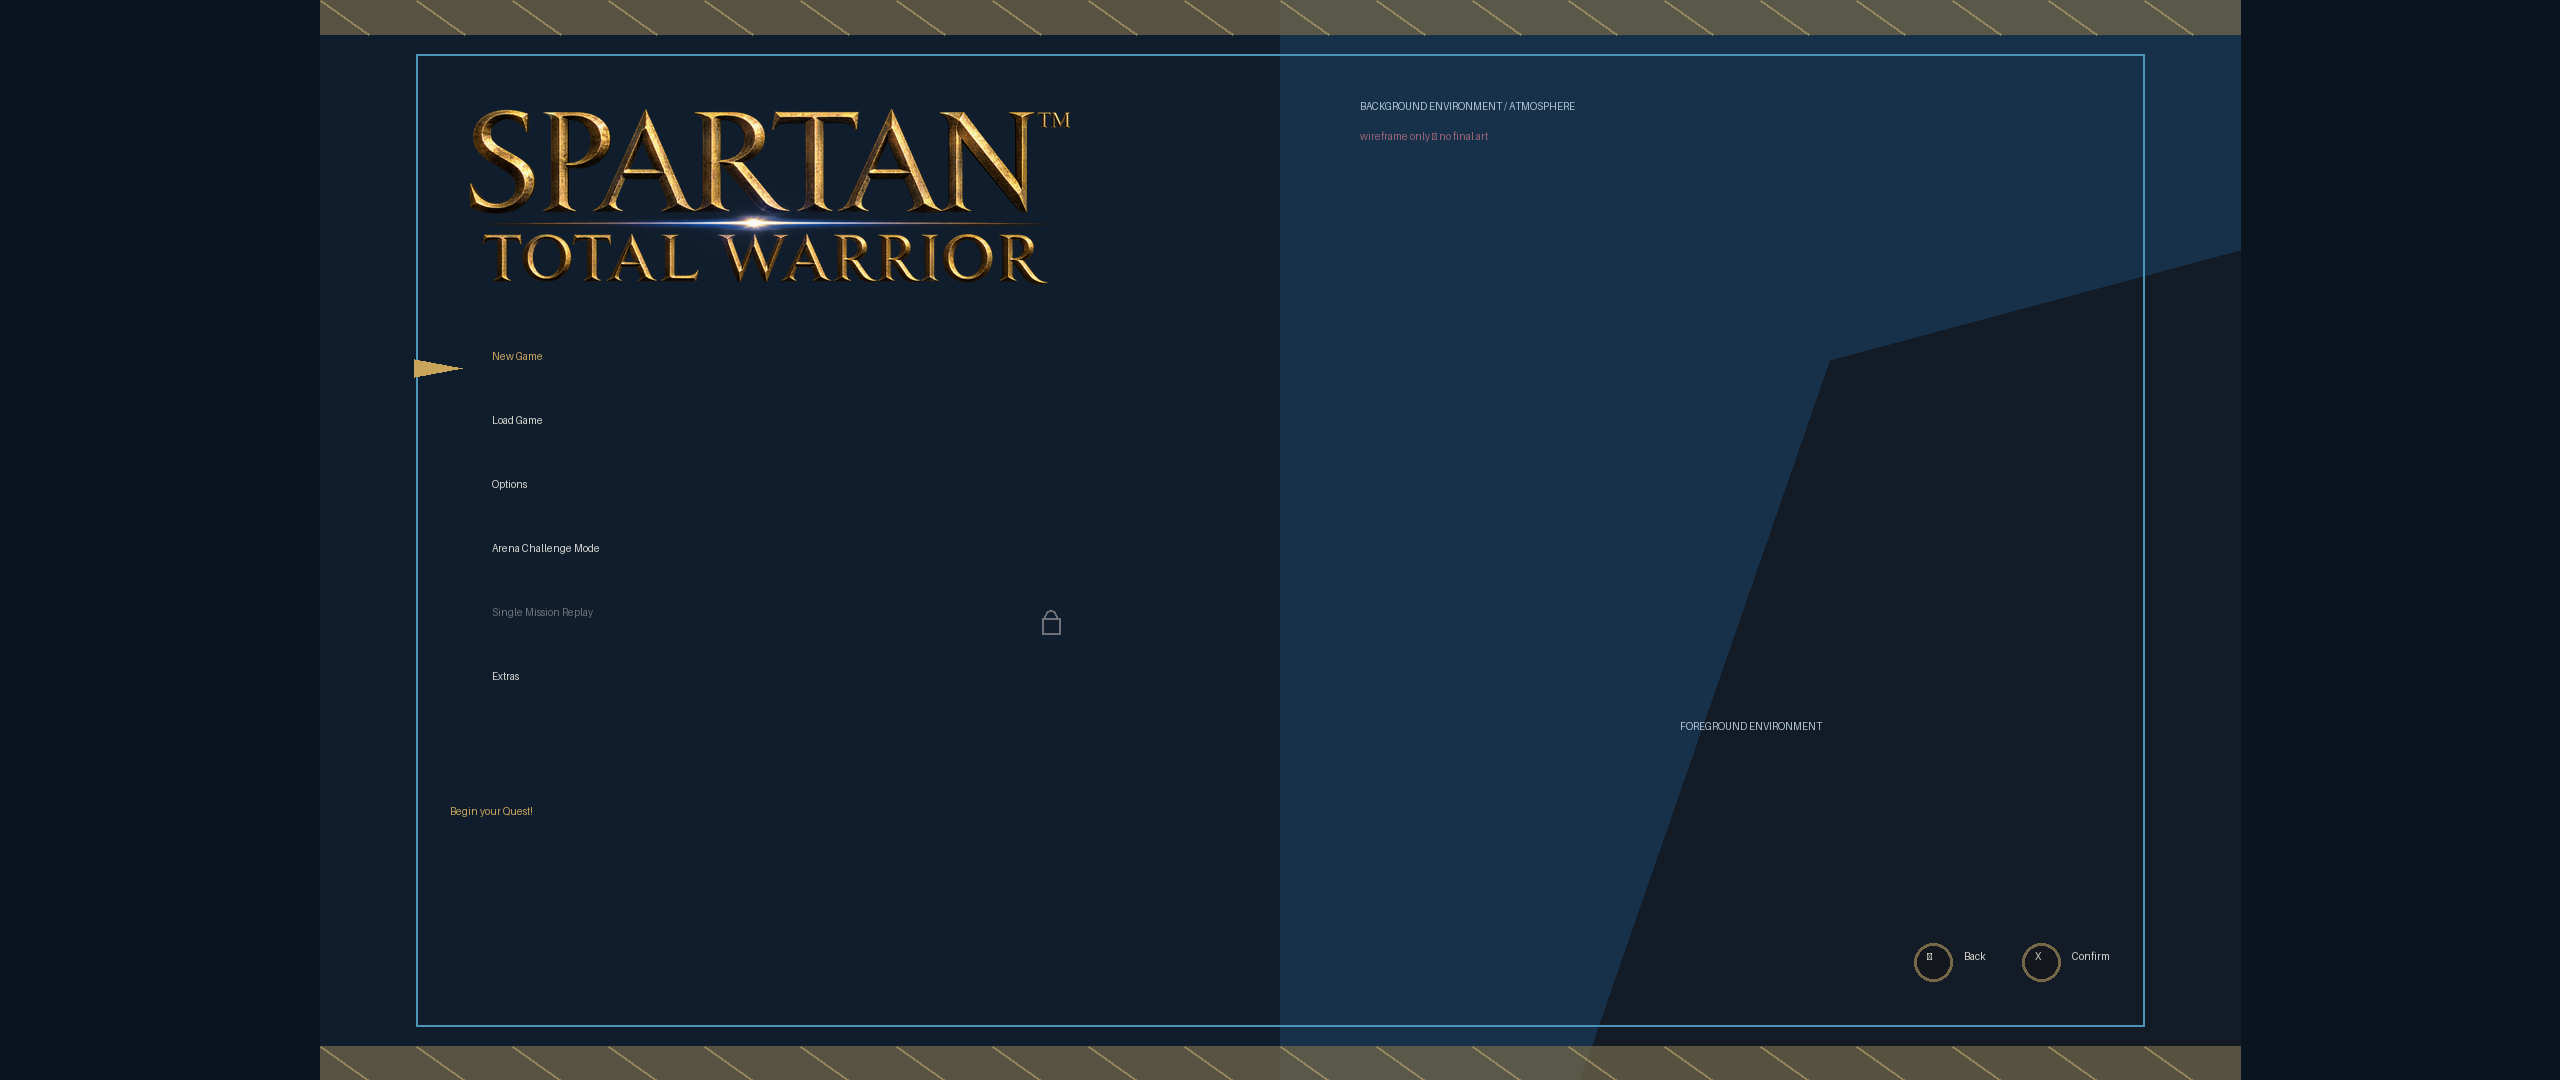
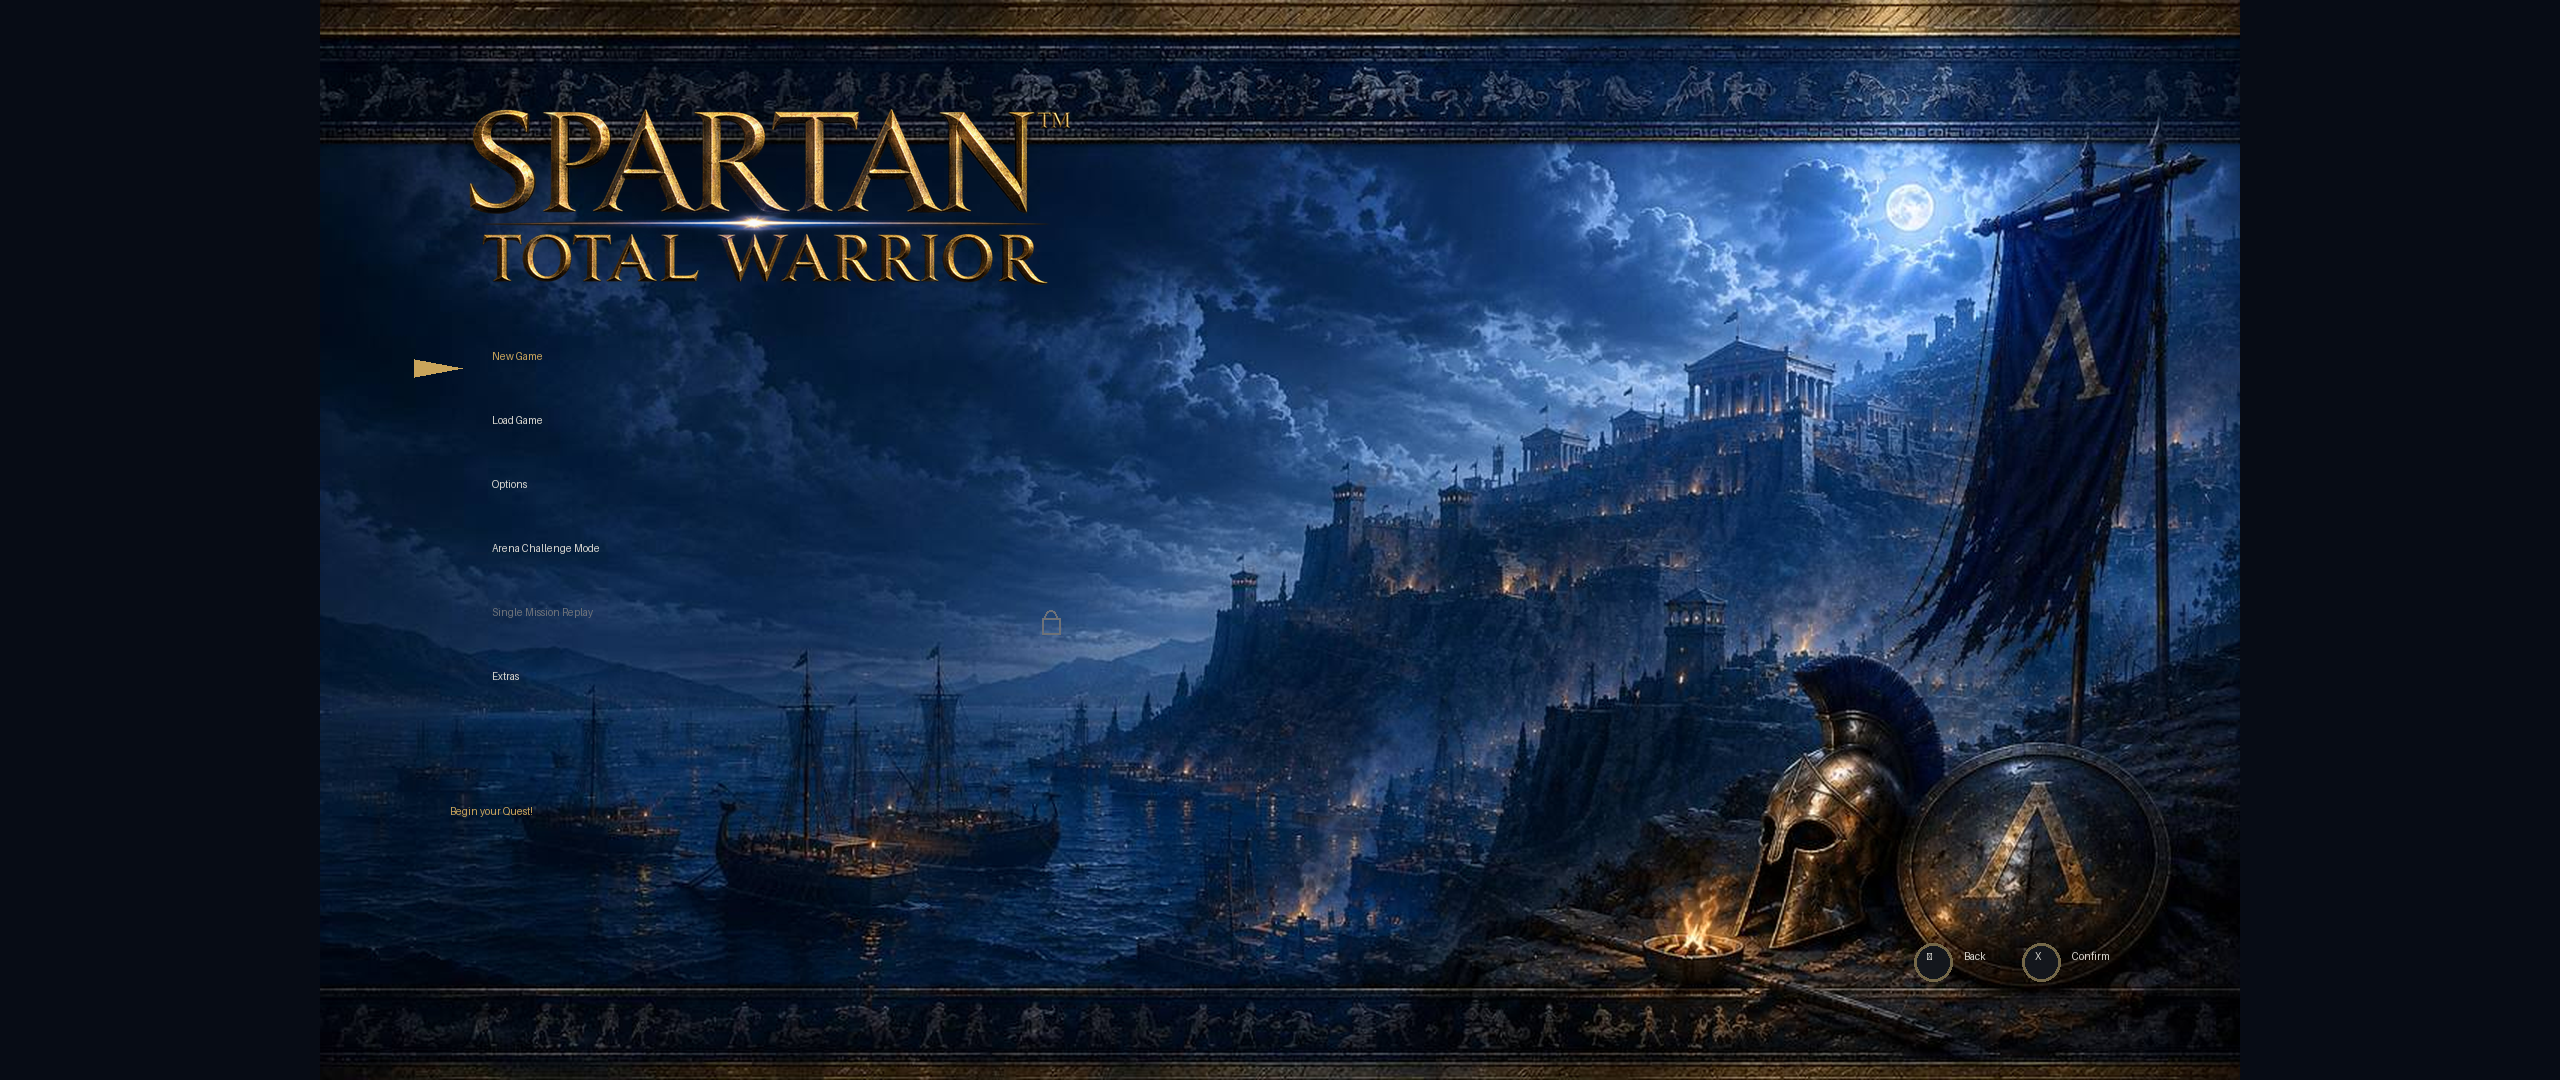
reforged: integrate approved main menu background

diff --git a/tools/reforged/frontend/main_menu_reforged.py b/tools/reforged/frontend/main_menu_reforged.py
@@ -287,26 +287,35 @@ def render_wireframe(
     image = Image.new("RGB", (width, height), _colour(tokens, "backgroundDark"))
     draw = ImageDraw.Draw(image, "RGBA")
 
-    # Environment-only side extensions and labelled composition zones.
-    if layout.background_extension_left:
-        draw.rectangle((0, 0, round(layout.composition_x), height), fill=(10, 20, 31, 255))
-        draw.rectangle((round(layout.composition_x + layout.composition_width), 0, width, height), fill=(10, 20, 31, 255))
-    draw.rectangle(_scaled_box(layout, (0, 0, 1920, 1080)), fill=_colour(tokens, "backgroundMid"))
-    draw.rectangle(_scaled_box(layout, (960, 0, 1920, 1080)), fill=_colour(tokens, "environmentGuide"))
-    draw.polygon([
-        layout.point(1260, 1080), layout.point(1510, 360), layout.point(1920, 250), layout.point(1920, 1080)
-    ], fill=(*ImageColor_getrgb(_colour(tokens, "foregroundGuide")), 220))
-
-    safe = tuple(round(v) for v in layout.safe_rect)
-    draw.rectangle(safe, outline=_colour(tokens, "safeAreaGuide"), width=max(1, round(2 * layout.scale)))
+    background_path = resolve_asset_path("background", tokens)
+    if background_path:
+        with Image.open(background_path) as background_source:
+            background = background_source.convert("RGB")
+        composition_size = (round(layout.composition_width), round(layout.composition_height))
+        rendered_background = background.resize(composition_size, Image.Resampling.LANCZOS)
+        image.paste(rendered_background, (round(layout.composition_x), round(layout.composition_y)))
+    else:
+        # Project-created fallback zones remain available when approved artwork is absent.
+        if layout.background_extension_left:
+            draw.rectangle((0, 0, round(layout.composition_x), height), fill=(10, 20, 31, 255))
+            draw.rectangle((round(layout.composition_x + layout.composition_width), 0, width, height), fill=(10, 20, 31, 255))
+        draw.rectangle(_scaled_box(layout, (0, 0, 1920, 1080)), fill=_colour(tokens, "backgroundMid"))
+        draw.rectangle(_scaled_box(layout, (960, 0, 1920, 1080)), fill=_colour(tokens, "environmentGuide"))
+        draw.polygon([
+            layout.point(1260, 1080), layout.point(1510, 360), layout.point(1920, 250), layout.point(1920, 1080)
+        ], fill=(*ImageColor_getrgb(_colour(tokens, "foregroundGuide")), 220))
+        safe = tuple(round(v) for v in layout.safe_rect)
+        draw.rectangle(safe, outline=_colour(tokens, "safeAreaGuide"), width=max(1, round(2 * layout.scale)))
 
     ornament_h = tokens["ornament"]["height"]
-    for y in (0, 1080 - ornament_h):
-        box = _scaled_box(layout, (0, y, 1920, y + ornament_h))
-        draw.rectangle(box, fill=(*ImageColor_getrgb(_colour(tokens, "ornamentNeutral")), 180))
-        step = max(8, round(tokens["ornament"]["tileWidth"] * layout.scale))
-        for x in range(box[0], box[2], step):
-            draw.line((x, box[1], min(box[2], x + step // 2), box[3]), fill=(195, 172, 112, 140), width=2)
+    bands_baked_in = bool(tokens["background"].get("approvedPlateIncludesOrnamentBands"))
+    if not (background_path and bands_baked_in):
+        for y in (0, 1080 - ornament_h):
+            box = _scaled_box(layout, (0, y, 1920, y + ornament_h))
+            draw.rectangle(box, fill=(*ImageColor_getrgb(_colour(tokens, "ornamentNeutral")), 180))
+            step = max(8, round(tokens["ornament"]["tileWidth"] * layout.scale))
+            for x in range(box[0], box[2], step):
+                draw.line((x, box[1], min(box[2], x + step // 2), box[3]), fill=(195, 172, 112, 140), width=2)
 
     # Replaceable logo component. A missing asset remains a labelled fallback.
     lx, ly = tokens["logo"]["position"]
@@ -380,11 +389,12 @@ def render_wireframe(
         draw.text(layout.point(cursor + tokens["prompt"]["glyphSize"] + 12, py - 12), label, font=prompt_font, fill=_colour(tokens, "textPrimary"))
         cursor -= tokens["prompt"]["itemGap"]
 
-    # Development labels make clear that no final artwork is present.
-    note_font = _font(round(15 * layout.scale))
-    draw.text(layout.point(1040, 100), "BACKGROUND ENVIRONMENT / ATMOSPHERE", font=note_font, fill=(175, 195, 211, 210))
-    draw.text(layout.point(1360, 720), "FOREGROUND ENVIRONMENT", font=note_font, fill=(175, 195, 211, 210))
-    draw.text(layout.point(1040, 130), "wireframe only — no final art", font=note_font, fill=(155, 101, 119, 240))
+    if not background_path:
+        # Development labels apply only to the project-created fallback treatment.
+        note_font = _font(round(15 * layout.scale))
+        draw.text(layout.point(1040, 100), "BACKGROUND ENVIRONMENT / ATMOSPHERE", font=note_font, fill=(175, 195, 211, 210))
+        draw.text(layout.point(1360, 720), "FOREGROUND ENVIRONMENT", font=note_font, fill=(175, 195, 211, 210))
+        draw.text(layout.point(1040, 130), "wireframe only — no final art", font=note_font, fill=(155, 101, 119, 240))
     return image
 
 

diff --git a/tools/reforged/frontend/integrate_approved_main_menu_background.py b/tools/reforged/frontend/integrate_approved_main_menu_background.py
@@ -1,0 +1,100 @@
+#!/usr/bin/env python3
+"""Archive the human-approved main-menu background without visual changes."""
+
+from __future__ import annotations
+
+import argparse
+import hashlib
+import json
+import pathlib
+import shutil
+
+from PIL import Image
+
+
+ROOT = pathlib.Path(__file__).resolve().parents[3]
+APPROVED_ROOT = ROOT / "assets/reforged/frontend/main-menu/background/approved"
+SOURCE_PATH = APPROVED_ROOT / "source/spartan-background-approved.jpg"
+RUNTIME_PATH = APPROVED_ROOT / "runtime/spartan-background-approved.jpg"
+METADATA_PATH = APPROVED_ROOT / "metadata/spartan-background-approved.json"
[1 lines of base64/hex data omitted]
+EXPECTED_SIZE = (1280, 720)
+
+
+def sha256_path(path: pathlib.Path) -> str:
+    digest = hashlib.sha256()
+    with path.open("rb") as stream:
+        for chunk in iter(lambda: stream.read(1024 * 1024), b""):
+            digest.update(chunk)
+    return digest.hexdigest()
+
+
+def inspect_source(path: pathlib.Path) -> dict[str, object]:
+    if not path.is_file():
+        raise FileNotFoundError(f"approved background is missing: {path}")
+    digest = sha256_path(path)
+    if digest != EXPECTED_SHA256:
+        raise ValueError(f"approved background hash mismatch: {digest}")
+    with Image.open(path) as image:
+        image.load()
+        if image.format != "JPEG" or image.mode != "RGB" or image.size != EXPECTED_SIZE:
+            raise ValueError(f"unexpected approved background: {image.format}/{image.mode}/{image.size}")
+    return {
+        "suppliedFilename": path.name,
+        "sha256": digest,
+        "fileSize": path.stat().st_size,
+        "format": "JPEG",
+        "mode": "RGB",
+        "dimensions": list(EXPECTED_SIZE),
+    }
+
+
+def copy_exact(source: pathlib.Path, target: pathlib.Path) -> None:
+    target.parent.mkdir(parents=True, exist_ok=True)
+    shutil.copyfile(source, target)
+    if source.read_bytes() != target.read_bytes():
+        raise RuntimeError(f"byte-exact copy validation failed: {target}")
+
+
+def integrate(source: pathlib.Path) -> dict[str, object]:
+    source_info = inspect_source(source)
+    copy_exact(source, SOURCE_PATH)
+    copy_exact(source, RUNTIME_PATH)
+    metadata: dict[str, object] = {
+        "schemaVersion": 1,
+        "approvalStatus": "HUMAN APPROVED",
+        "source": {**source_info, "path": str(SOURCE_PATH.relative_to(ROOT)).replace("\\", "/")},
+        "runtime": {
+            "path": str(RUNTIME_PATH.relative_to(ROOT)).replace("\\", "/"),
+            "sha256": sha256_path(RUNTIME_PATH),
+            "sourceAndRuntimeByteIdentical": True,
+            "viewportPolicy": "scale complete 16:9 plate into central composition without crop",
+        },
+        "processing": {
+            "visualDesignAltered": False,
+            "colourGradePerformed": False,
+            "sharpeningPerformed": False,
+            "cropPerformed": False,
+            "sourceFileReencoded": False,
+        },
+        "ornamentalBands": {
+            "bakedIntoApprovedPlate": True,
+            "placeholderOverlayEnabled": False,
+        },
+        "provenance": "human-supplied and human-approved SpartanReforged project artwork",
+    }
+    METADATA_PATH.parent.mkdir(parents=True, exist_ok=True)
+    METADATA_PATH.write_text(json.dumps(metadata, indent=2) + "\n", encoding="utf-8")
+    return metadata
+
+
+def main() -> int:
+    parser = argparse.ArgumentParser(description=__doc__)
+    parser.add_argument("--source", type=pathlib.Path, required=True)
+    args = parser.parse_args()
+    print(json.dumps(integrate(args.source.resolve()), indent=2))
+    return 0
+
+
+if __name__ == "__main__":
+    raise SystemExit(main())

diff --git a/tools/reforged/frontend/publish_main_menu_reviews.py b/tools/reforged/frontend/publish_main_menu_reviews.py
@@ -20,10 +20,13 @@ from PIL import Image
 ROOT = pathlib.Path(__file__).resolve().parents[3]
 OUTPUT_ROOT = ROOT / "assets/reforged/frontend/review/main-menu/current"
 LOGO_PATH = ROOT / "assets/reforged/frontend/main-menu/logo/approved/runtime/spartan-logo-approved.png"
+BACKGROUND_PATH = ROOT / "assets/reforged/frontend/main-menu/background/approved/runtime/spartan-background-approved.jpg"
 TOKENS_PATH = ROOT / "assets/reforged/frontend/main-menu/main_menu_tokens.json"
 LOCALE_PATH = ROOT / "assets/reforged/frontend/main-menu/locales/en.json"
[1 lines of base64/hex data omitted]
 EXPECTED_LOGO_SIZE = (2172, 724)
[1 lines of base64/hex data omitted]
+EXPECTED_BACKGROUND_SIZE = (1280, 720)
 TARGETS = {
     "main-menu-1080p.png": (1920, 1080),
     "main-menu-1440p.png": (2560, 1440),
@@ -66,12 +69,31 @@ def validate_logo() -> Image.Image:
         return source.copy()
 
 
+def validate_background() -> None:
+    if not BACKGROUND_PATH.is_file():
+        raise FileNotFoundError(f"approved runtime background is missing: {BACKGROUND_PATH}")
+    digest = sha256_path(BACKGROUND_PATH)
+    if digest != EXPECTED_BACKGROUND_SHA256:
+        raise ValueError(f"approved runtime background hash mismatch: {digest}")
+    with Image.open(BACKGROUND_PATH) as source:
+        source.load()
+        if source.format != "JPEG" or source.mode != "RGB" or source.size != EXPECTED_BACKGROUND_SIZE:
+            raise ValueError(
+                f"unexpected approved runtime background: {source.format}/{source.mode}/{source.size}"
+            )
+
+
 def render_reviews() -> dict[str, dict[str, object]]:
     ui = load_ui_module()
     logo = validate_logo()
+    validate_background()
     tokens = ui.load_json(TOKENS_PATH)
     if tokens["assets"]["logo"] != "logo/approved/runtime/spartan-logo-approved.png":
         raise ValueError("menu tokens are not bound to the approved runtime logo")
+    if tokens["assets"]["background"] != "background/approved/runtime/spartan-background-approved.jpg":
+        raise ValueError("menu tokens are not bound to the approved runtime background")
+    if not tokens["background"].get("approvedPlateIncludesOrnamentBands"):
+        raise ValueError("approved background must suppress duplicate ornament overlays")
     strings = ui.load_json(LOCALE_PATH)["strings"]
     state = ui.MenuState(ui.build_main_start(maxlevel=0), "new_game")
 
@@ -89,7 +111,8 @@ def render_reviews() -> dict[str, dict[str, object]]:
             "sha256": sha256_path(output),
             "bytes": output.stat().st_size,
             "approvedLogo": str(LOGO_PATH.relative_to(ROOT)).replace("\\", "/"),
-            "provenance": "project-created Reforged menu renderer and approved Reforged logo",
+            "approvedBackground": str(BACKGROUND_PATH.relative_to(ROOT)).replace("\\", "/"),
+            "provenance": "project-created Reforged menu renderer, approved background, and approved logo",
         }
     return manifest
 

diff --git a/tests/reforged/test_approved_main_menu_background.py b/tests/reforged/test_approved_main_menu_background.py
@@ -1,0 +1,47 @@
+"""Deterministic integration tests for the approved Reforged background."""
+
+from __future__ import annotations
+
+import importlib.util
+import json
+import pathlib
+import sys
+import unittest
+
+from PIL import Image
+
+
+ROOT = pathlib.Path(__file__).resolve().parents[2]
+MODULE_PATH = ROOT / "tools/reforged/frontend/integrate_approved_main_menu_background.py"
+SPEC = importlib.util.spec_from_file_location("approved_background_integration_test", MODULE_PATH)
+assert SPEC and SPEC.loader
+APPROVED = importlib.util.module_from_spec(SPEC)
+sys.modules[SPEC.name] = APPROVED
+SPEC.loader.exec_module(APPROVED)
+
+
+class ApprovedMainMenuBackgroundTests(unittest.TestCase):
+    def test_source_and_runtime_are_byte_exact(self) -> None:
+        self.assertEqual(APPROVED.sha256_path(APPROVED.SOURCE_PATH), APPROVED.EXPECTED_SHA256)
+        self.assertEqual(APPROVED.sha256_path(APPROVED.RUNTIME_PATH), APPROVED.EXPECTED_SHA256)
+        self.assertEqual(APPROVED.SOURCE_PATH.read_bytes(), APPROVED.RUNTIME_PATH.read_bytes())
+
+    def test_metadata_and_format(self) -> None:
+        metadata = json.loads(APPROVED.METADATA_PATH.read_text(encoding="utf-8"))
+        self.assertEqual(metadata["approvalStatus"], "HUMAN APPROVED")
+        self.assertFalse(metadata["processing"]["visualDesignAltered"])
+        self.assertFalse(metadata["processing"]["sourceFileReencoded"])
+        with Image.open(APPROVED.RUNTIME_PATH) as image:
+            self.assertEqual((image.format, image.mode, image.size), ("JPEG", "RGB", (1280, 720)))
+
+    def test_tokens_bind_background_and_suppress_duplicate_bands(self) -> None:
+        tokens = json.loads((ROOT / "assets/reforged/frontend/main-menu/main_menu_tokens.json").read_text(encoding="utf-8"))
+        self.assertEqual(
+            tokens["assets"]["background"],
+            "background/approved/runtime/spartan-background-approved.jpg",
+        )
+        self.assertTrue(tokens["background"]["approvedPlateIncludesOrnamentBands"])
+
+
+if __name__ == "__main__":
+    unittest.main()

diff --git a/docs/reforged/frontend/MAIN_MENU_ART_DIRECTION.md b/docs/reforged/frontend/MAIN_MENU_ART_DIRECTION.md
@@ -42,7 +42,9 @@ The original supplies behavioral truth: menu order, selected state, contextual m
 
 ## Human approval gates
 
-The supplied high-resolution raster logo is human-approved and integrated; its in-menu presentation remains the immediate review gate. Typeface, background composition, foreground composition, ornamental motif, prompt glyphs, marker, padlock, and motion language each still require design review.
+The supplied high-resolution raster logo is human-approved and integrated. Typeface, prompt glyphs, marker, padlock, and motion language still require design review.
+
+The main-menu background plate is now also human-approved. The supplied 1280×720 RGB JPEG is archived and used byte-for-byte; runtime presentation scales the complete 16:9 plate into the central composition without cropping. Its ornamental top and bottom bands are baked into the approved artwork, so the procedural placeholder bands are suppressed whenever this plate is active. Logo, navigation, selection, context, padlock, and controller prompts remain independent UI layers.
 
 ## Reforged art pipeline principle
 
